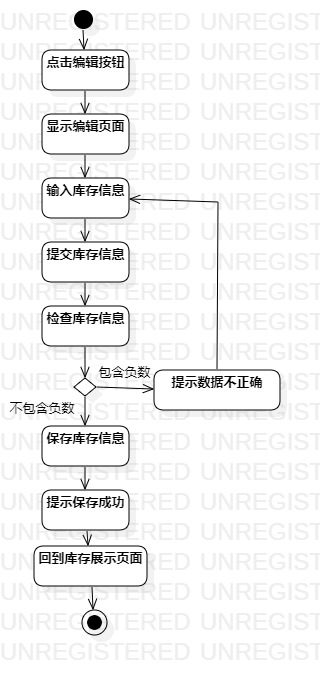
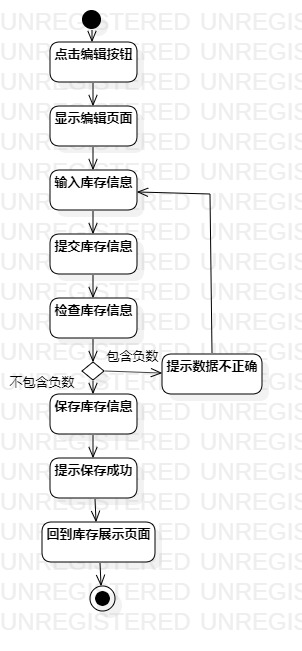
修改实验2、3

Changed region(s): [[0.0298, 0.0, 0.894, 0.9524]]

diff --git a/students/1714080902214/lab2.md b/students/1714080902214/lab2.md
@@ -13,8 +13,8 @@
 ## 三、实验步骤
 	1. B站观看课程视频
 	2. 在用例图中添加角色水果提供商和水果需求方
-	3. 添加用例编辑水果库存信息、浏览提供商水果库存信息和签订采购合同并连线
-	4. 编写编辑水果库存信息、浏览提供商水果库存信息和签订采购合同的用例规约
+	3. 添加用例编辑库存和提交需求并连线
+	4. 编写编辑库存和提交需求的用例规约
 
 ## 四、实验结果
 ![用例图](./lab2_UseCaseDiagram.jpg) 
@@ -30,37 +30,24 @@
 后置条件  |      | *可选*   
 基本流程  | 1. 水果提供者点击编辑按钮；  |*用例执行成功的步骤*    
 ~| 2. 系统显示编辑页面；  |   
-~| 3. 水果提供方输入库存信息，点击提交按钮；  |   
+~| 3. 水果提供方输入库存，点击提交按钮；  |   
 ~| 4. 系统检查输入数据不包含负数，更新提供商的库存信息，提示保存成功，回到库存展示页面；  |   
 扩展流程  | 4.1 系统检查发现输入的库存数包含负数，**提示“数据不正确”**；  |*用例执行失败*
 
-## 表2：浏览库存用例规约  
+## 表2：提交需求用例规约
 
 用例编号  | UC02 | 备注  
 -|:-|-  
-用例名称  | 浏览库存  |   
-前置条件  |      | *可选*   
-后置条件  |      | *可选*   
-基本流程  | 1. 水果需求方或提供商进入库存展示页面  |*用例执行成功的步骤*    
-~| 2. 系统检索到有提供商信息，查询所有提供商库存信息并展示；  |  
-扩展流程  | 2.1 系统检索到无提供商信息，**提示“暂无提供商”**；  |*用例执行失败*
-
-## 表3：签订合同用例规约
-
-用例编号  | UC03 | 备注  
--|:-|-  
-用例名称  | 签订合同  |   
+用例名称  | 提交需求  |   
 前置条件  |      | *可选*   
 后置条件  |      | *可选*   
 基本流程  | 1. 水果需求方点击采购按钮；  |*用例执行成功的步骤*    
 ~| 2. 系统显示采购需求填写页面；  |   
-~| 3. 水果需求方输入需求信息，点击提交按钮；  |   
+~| 3. 水果需求方输入需求，点击提交按钮；  |   
 ~| 4. 系统检查需求量不包含负数且需求量小于等于库存量，保存需求信息，提示“提交成功”；  |   
-~| 5. 水果提供方点击接受按钮；  |   
-~| 6. 系统查询该需求信息的水果需求数量，更新提供方库存信息减去相应数量，创建采购合同，提示“创建采购合同成功”；  |   
 扩展流程  | 4.1 系统检查发现需求数为负数，提示“数据不正确”；  |*用例执行失败*  
-~| 4.2 系统检查发现需求数大于库存数，提示“需求大于库存”；  |
-~| 5.1 水果提供方点击拒绝按钮，删除需求信息，提示“已拒绝需求方”；  |  
+~| 4.2 系统检查发现需求数大于库存数，**提示“需求大于库存”**；  |
+
   
 
 

diff --git a/students/1714080902214/lab3.md b/students/1714080902214/lab3.md
@@ -12,21 +12,16 @@
 ## 三、实验步骤
 	1. B站观看课程视频
 	2. 画出“编辑库存”活动图
-	3. 画出“浏览库存”活动图
-	4. 画出“签订合同”活动图
+	3. 画出“提交需求”活动图
 
 ## 四、实验结果
-![用例图](./lab3_ActivityDiagram1.jpg) 
+![活动图1](./lab3_ActivityDiagram1.jpg) 
 
 图1：编辑库存活动图
 
-![用例图](./lab3_ActivityDiagram2.jpg) 
+![活动图2](./lab3_ActivityDiagram2.jpg) 
 
-图2：浏览库存活动图
-
-![用例图](./lab3_ActivityDiagram3.jpg) 
-
-图3：签订合同活动图
+图2：提交需求活动图
 
 
 

diff --git a/students/1714080902214/lab1.md b/students/1714080902214/lab1.md
@@ -19,8 +19,7 @@ https://github.com/hzuapps/uml-modeling-2020/issues
 
 水果销售系统：
 
-①水果提供商的商城库存编辑
+①水果提供商编辑库存
 
-②水果需求方对提供商信息的浏览
+③水果需求方提需求
 
-③采购合同的签订
